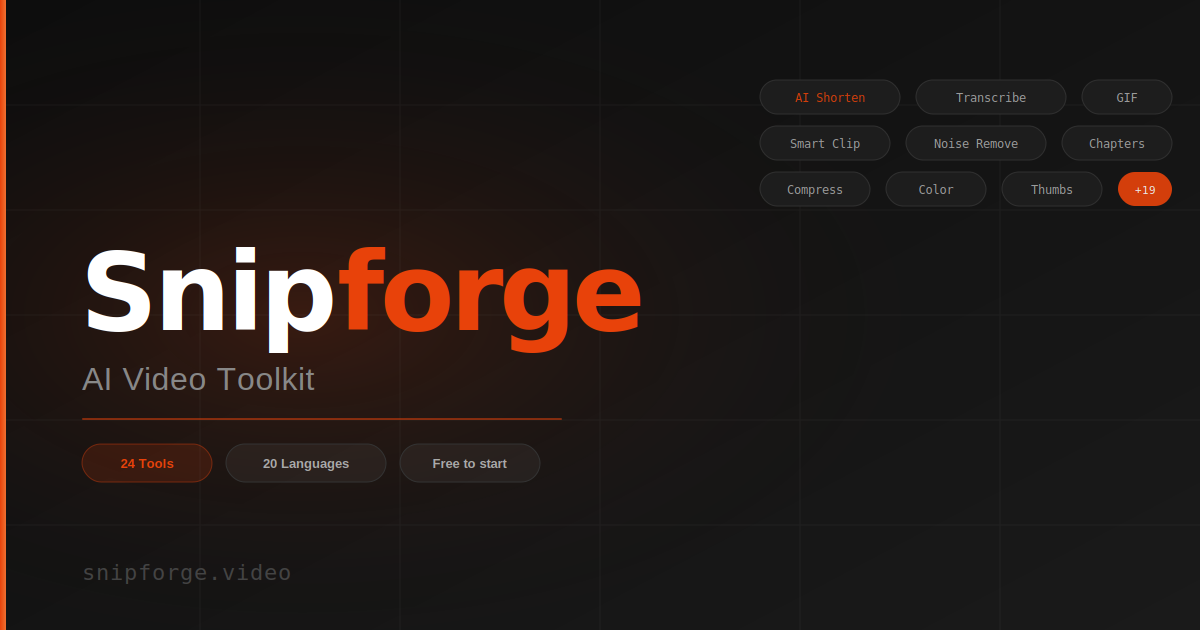
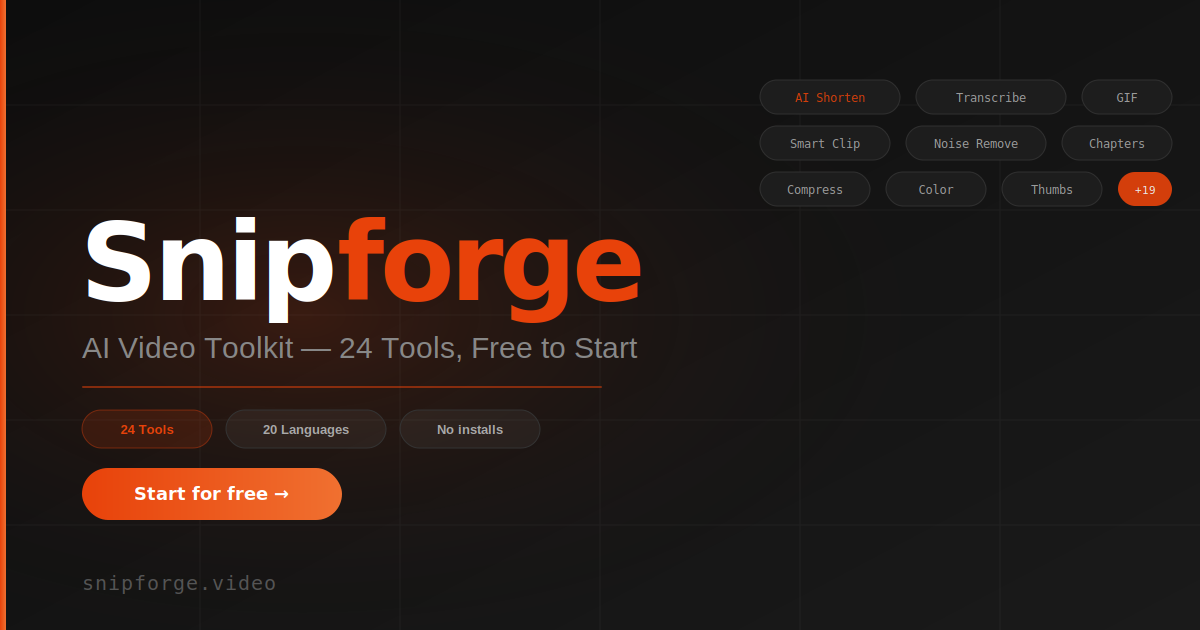
Fix OG meta title, description length and add CTA to image

Changed region(s): [[0.0617, 0.3317, 0.555, 0.8444], [0.0617, 0.9048, 0.2467, 0.9349], [0.3392, 0.7238, 0.4317, 0.754]]

diff --git a/snipforge.py b/snipforge.py
@@ -3289,14 +3289,14 @@ LANDING_HTML = """<!DOCTYPE html>
 <meta name="viewport" content="width=device-width,initial-scale=1">
 <title>Snipforge — AI Video Toolkit</title>
 <meta name="description" content="24 professional video tools in your browser. Trim, transcribe, translate, watermark, GIF, blur, AI smart clip and more. Free to start.">
-<meta property="og:title" content="Snipforge — AI Video Toolkit">
-<meta property="og:description" content="24 AI-powered video tools in your browser. Trim, transcribe, AI smart clip, chapters and more. Free to start.">
+<meta property="og:title" content="Snipforge — AI Video Toolkit. 24 Tools, Free to Start.">
+<meta property="og:description" content="24 AI-powered video tools in your browser. Trim, transcribe, AI smart clip, generate chapters, extract thumbnails, blur regions and more. No installs. Free to start.">
 <meta property="og:image" content="https://snipforge.video/og-image.png">
 <meta property="og:url" content="https://snipforge.video">
 <meta property="og:type" content="website">
 <meta name="twitter:card" content="summary_large_image">
-<meta name="twitter:title" content="Snipforge — AI Video Toolkit">
-<meta name="twitter:description" content="24 AI-powered video tools in your browser. Free to start.">
+<meta name="twitter:title" content="Snipforge — AI Video Toolkit. 24 Tools, Free to Start.">
+<meta name="twitter:description" content="24 AI-powered video tools in your browser. Trim, transcribe, AI smart clip, generate chapters, extract thumbnails, blur regions and more. No installs. Free to start.">
 <meta name="twitter:image" content="https://snipforge.video/og-image.png">
 <link rel="preconnect" href="https://fonts.googleapis.com">
 <link href="https://fonts.googleapis.com/css2?family=Inter:wght@300;400;500;600;700;800;900&family=Inter+Tight:wght@700;800;900&display=swap" rel="stylesheet">